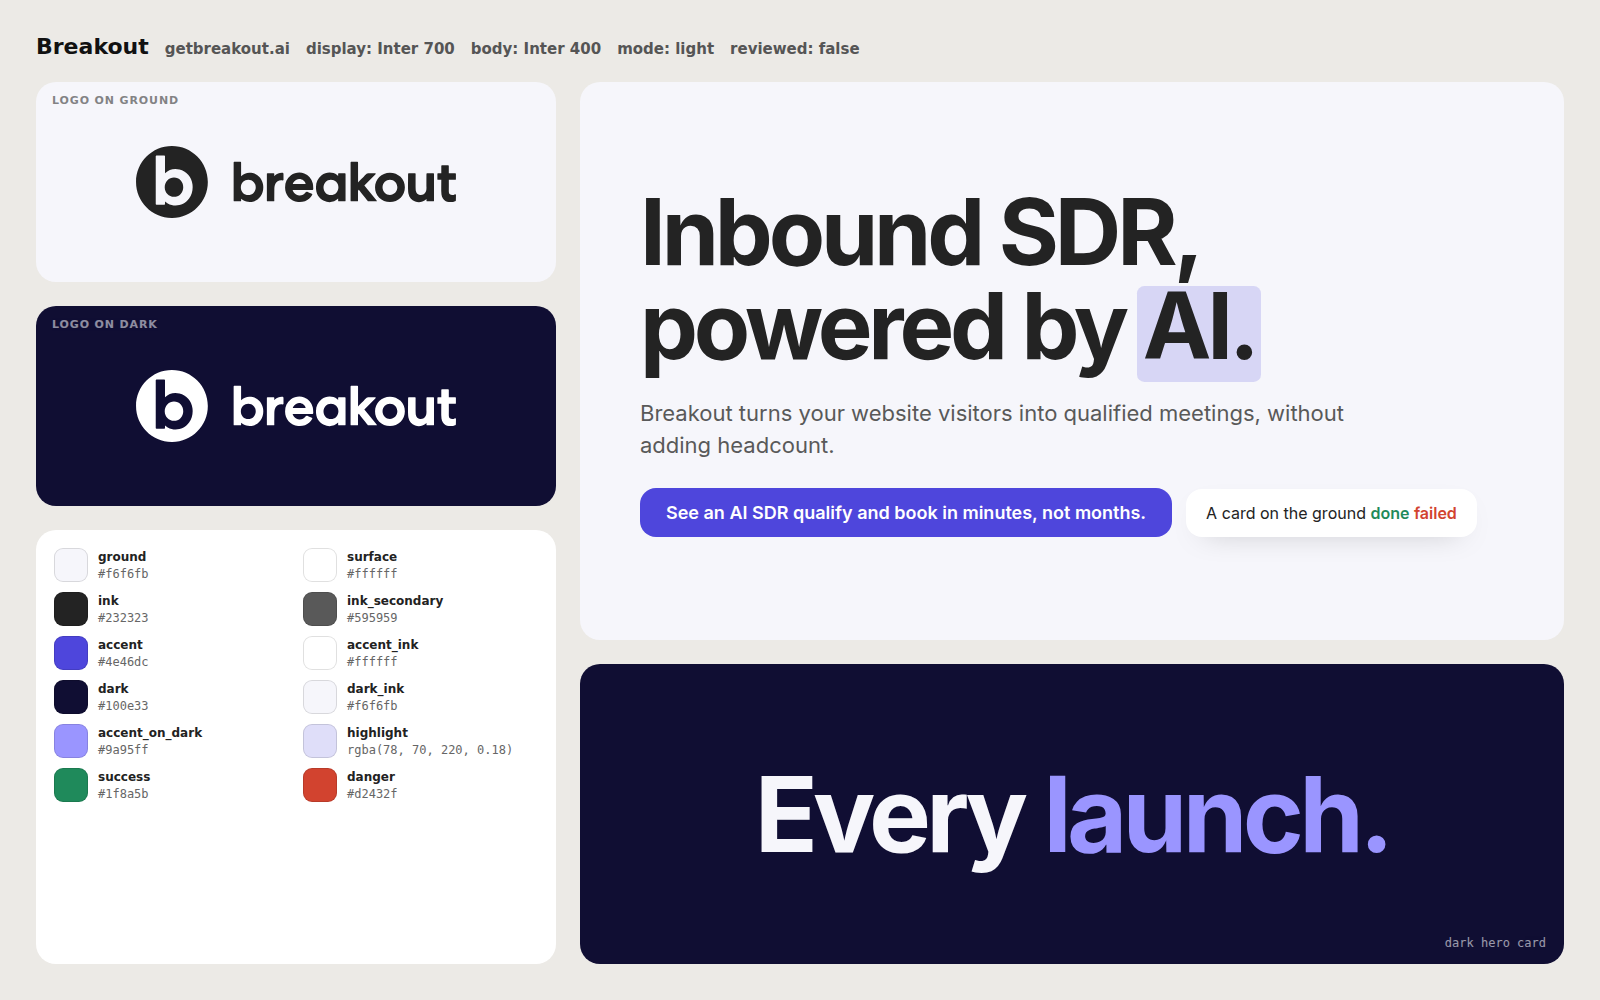
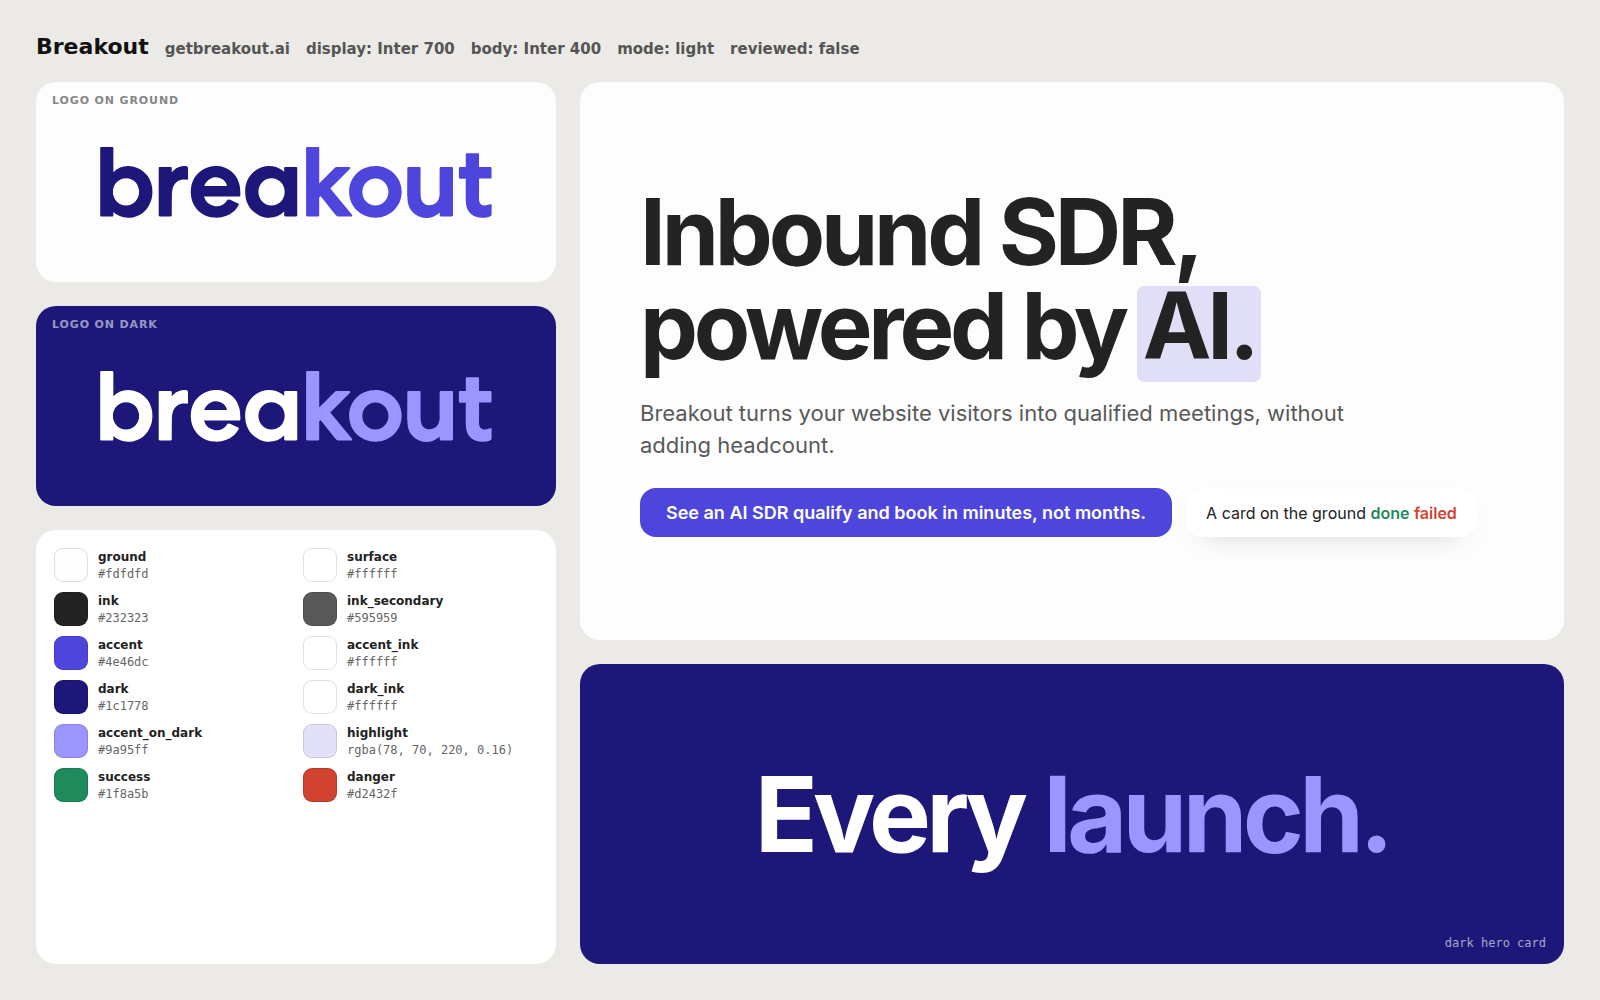
Use Breakout's app styles and real product screens
- Logo: the two-tone wordmark as the app shows it ('break' #1C1778, 'out'
  #4E46DC), built from the Drive SVG geometry; the mark is the indigo b-disc
  favicon
- Palette: dark cards on the wordmark's deep indigo, ground on the app's
  #fdfdfd
- Product beats on 4 real screens (Accounts, account Browsing Summary, All
  Chats, Contacts) with visitor names, emails, LinkedIn handles and visitor
  companies blurred; placeholders removed
- Style log round 1

Claude-Session: https://claude.ai/code/session_01KiAPnoACp1J2Pkh9Axh1Sx

diff --git a/brand/preview.html b/brand/preview.html
@@ -19,26 +19,26 @@ body { width: 1600px; height: 1000px; background: #eceae6; font-family: "Inter",
 .sw b { font: 600 12px system-ui; }
 .sw span { font: 12px ui-monospace, monospace; color: #666; }
 .right { display: grid; gap: 24px; grid-template-rows: 1fr 300px; }
-.stage { background: #f6f6fb; color: #232323; padding: 56px 60px; display: flex; flex-direction: column; justify-content: center; gap: 26px; }
+.stage { background: #fdfdfd; color: #232323; padding: 56px 60px; display: flex; flex-direction: column; justify-content: center; gap: 26px; }
 .hero { font-family: "Inter", system-ui, sans-serif; font-weight: 700; letter-spacing: -0.045em; font-size: 92px; line-height: 1.02; }
 .k { position: relative; isolation: isolate; }
-.k::before { content: ""; position: absolute; left: -0.06em; right: -0.06em; top: 0.18em; bottom: -0.02em; border-radius: 0.08em; background: rgba(78, 70, 220, 0.18); z-index: -1; }
+.k::before { content: ""; position: absolute; left: -0.06em; right: -0.06em; top: 0.18em; bottom: -0.02em; border-radius: 0.08em; background: rgba(78, 70, 220, 0.16); z-index: -1; }
 .body { font-size: 22px; line-height: 1.45; color: #595959; max-width: 760px; }
 .row { display: flex; gap: 14px; align-items: center; }
 .btn { background: #4e46dc; color: #ffffff; padding: 14px 26px; border-radius: 16px; font-weight: 600; font-size: 18px; }
 .surf { background: #ffffff; border-radius: 16px; padding: 14px 20px; font-size: 16px; color: #232323; box-shadow: 0 10px 30px -18px rgba(0,0,0,0.35); }
 .ok { color: #1f8a5b; font-weight: 600; } .bad { color: #d2432f; font-weight: 600; }
-.darkcard { background: #100e33; color: #f6f6fb; display: grid; place-items: center; }
-.darkcard .hero { font-size: 104px; color: #f6f6fb; }
+.darkcard { background: #1c1778; color: #ffffff; display: grid; place-items: center; }
+.darkcard .hero { font-size: 104px; color: #ffffff; }
 .darkcard .hero .acc { color: #9a95ff; }
 .meta { position: absolute; right: 18px; bottom: 14px; font: 12px ui-monospace, monospace; opacity: 0.6; }
 </style></head>
 <body>
 <div class="h"><b>Breakout</b><span>getbreakout.ai</span><span>display: Inter 700</span><span>body: Inter 400</span><span>mode: light</span><span>reviewed: false</span></div>
 <div class="col">
-  <div class="card lg" style="background:#f6f6fb"><small style="color:#232323">logo on ground</small><img src="logo.svg" alt=""></div>
-  <div class="card lg" style="background:#100e33"><small style="color:#f6f6fb">logo on dark</small><img src="logo-on-dark.svg" alt=""></div>
-  <div class="card sws"><div class="sw"><i style="background:#f6f6fb"></i><b>ground</b><span>#f6f6fb</span></div><div class="sw"><i style="background:#ffffff"></i><b>surface</b><span>#ffffff</span></div><div class="sw"><i style="background:#232323"></i><b>ink</b><span>#232323</span></div><div class="sw"><i style="background:#595959"></i><b>ink_secondary</b><span>#595959</span></div><div class="sw"><i style="background:#4e46dc"></i><b>accent</b><span>#4e46dc</span></div><div class="sw"><i style="background:#ffffff"></i><b>accent_ink</b><span>#ffffff</span></div><div class="sw"><i style="background:#100e33"></i><b>dark</b><span>#100e33</span></div><div class="sw"><i style="background:#f6f6fb"></i><b>dark_ink</b><span>#f6f6fb</span></div><div class="sw"><i style="background:#9a95ff"></i><b>accent_on_dark</b><span>#9a95ff</span></div><div class="sw"><i style="background:rgba(78, 70, 220, 0.18)"></i><b>highlight</b><span>rgba(78, 70, 220, 0.18)</span></div><div class="sw"><i style="background:#1f8a5b"></i><b>success</b><span>#1f8a5b</span></div><div class="sw"><i style="background:#d2432f"></i><b>danger</b><span>#d2432f</span></div></div>
+  <div class="card lg" style="background:#fdfdfd"><small style="color:#232323">logo on ground</small><img src="logo.svg" alt=""></div>
+  <div class="card lg" style="background:#1c1778"><small style="color:#ffffff">logo on dark</small><img src="logo-on-dark.svg" alt=""></div>
+  <div class="card sws"><div class="sw"><i style="background:#fdfdfd"></i><b>ground</b><span>#fdfdfd</span></div><div class="sw"><i style="background:#ffffff"></i><b>surface</b><span>#ffffff</span></div><div class="sw"><i style="background:#232323"></i><b>ink</b><span>#232323</span></div><div class="sw"><i style="background:#595959"></i><b>ink_secondary</b><span>#595959</span></div><div class="sw"><i style="background:#4e46dc"></i><b>accent</b><span>#4e46dc</span></div><div class="sw"><i style="background:#ffffff"></i><b>accent_ink</b><span>#ffffff</span></div><div class="sw"><i style="background:#1c1778"></i><b>dark</b><span>#1c1778</span></div><div class="sw"><i style="background:#ffffff"></i><b>dark_ink</b><span>#ffffff</span></div><div class="sw"><i style="background:#9a95ff"></i><b>accent_on_dark</b><span>#9a95ff</span></div><div class="sw"><i style="background:rgba(78, 70, 220, 0.16)"></i><b>highlight</b><span>rgba(78, 70, 220, 0.16)</span></div><div class="sw"><i style="background:#1f8a5b"></i><b>success</b><span>#1f8a5b</span></div><div class="sw"><i style="background:#d2432f"></i><b>danger</b><span>#d2432f</span></div></div>
 </div>
 <div class="right">
   <div class="card stage">
@@ -46,6 +46,6 @@ body { width: 1600px; height: 1000px; background: #eceae6; font-family: "Inter",
     <div class="body">Breakout turns your website visitors into qualified meetings, without adding headcount.</div>
     <div class="row"><span class="btn">See an AI SDR qualify and book in minutes, not months.</span><span class="surf">A card on the ground <span class="ok">done</span> <span class="bad">failed</span></span></div>
   </div>
-  <div class="card darkcard"><div class="hero">Every <span class="acc">launch.</span></div><span class="meta" style="color:#f6f6fb">dark hero card</span></div>
+  <div class="card darkcard"><div class="hero">Every <span class="acc">launch.</span></div><span class="meta" style="color:#ffffff">dark hero card</span></div>
 </div>
 </body></html>

diff --git a/docs/breakout-style.md b/docs/breakout-style.md
@@ -2,25 +2,26 @@
 
 The look of Breakout's launch films, decided one round at a time. Change 1 variable per round, and write each verdict in the owner's words in the table at the bottom.
 
-## Where it stands (round 0, a draft)
+## Where it stands (round 1)
 
 | Lever | Now | Where it lives |
 |---|---|---|
-| Grounds | Cool off-white `#f6f6fb` for statement scenes, deep indigo `#100e33` for dark cards, Breakout indigo `#4e46dc` for 1 accent card | `brand/brand.json` `colors` |
+| Grounds | The app's white `#fdfdfd` for statement scenes, deep indigo `#1c1778` for dark cards, indigo `#4e46dc` for 1 accent card | `brand/brand.json` `colors` |
 | Key words | A soft indigo marker on light grounds, lilac `#9a95ff` on dark | `highlight`, `accent_on_dark` |
 | Type | Inter 700, tracking -0.045em, hero words at 110 to 150 px | `fonts.display` |
-| Logo | The real Drive lockup (mark and wordmark), calm, never recoloured to indigo | `film.json` `"lockup": "logo"` |
+| Logo | The two-tone wordmark exactly as the app shows it, no mark | `film.json` `"lockup": "logo"` |
 | Motion | The kit's Apple and Lovable grammar: hard cuts on the voice, dives and collapses, a push into the product, a quiet end | `film/templates/body.html` |
 | Voice | Challenger: direct, confident, 1 idea per line | `film/film.json` `lines` |
 | Music | The free scratch bed at 120 BPM, drop on the cut | `film/score/` |
 
 ## Open questions to settle together
 
+0. **The homepage.** Its styles could not be read from the build container (network policy). Check them against `brand/preview.png`, or allow getbreakout.ai and re-extract.
 1. **Light or dark world.** Light statement scenes with dark punch cards (now), or a fully dark, indigo-glow film that feels more "AI"?
 2. **How much indigo.** 1 accent card per film (now), or indigo as the main ground with white type?
 3. **Type.** Inter as a stand-in, or the site's own face (needs its files and a video licence)?
 4. **Hook direction.** Type-only problem lines (now), a stylised "visitor leaves the site" moment, or a real website recording with the AI SDR opening a conversation?
-5. **Product shots.** Which 3 screens show identify, engage and convert best? A screen recording of a live conversation would beat stills.
+5. **Product shots.** Accounts, the account Browsing Summary, All Chats and Contacts are in. Missing: a live AI SDR conversation (the engage beat shows a list, not a chat) and a follow-up email. Contacts is mostly blurred; a demo workspace with sample data would read better.
 6. **Narrator.** Gender, age, pace. The kit's default is brisk and clear, 2.2 to 2.7 words a second, never performed.
 7. **Music.** Clean electronic at about 120 BPM (now), or something warmer?
 
@@ -28,4 +29,4 @@ The look of Breakout's launch films, decided one round at a time. Change 1 varia
 
 | Date | Round | Film | Approved | Rejected |
 |---|---|---|---|---|
-| | | | | |
+| 2026-10-05 | 1 | attention | Logo and colours from the app ("break" `#1C1778`, "out" `#4E46DC`); real screens with customer data blurred | Round 0's grey placeholder screens and invented `#100e33` dark |

diff --git a/brand/README.md b/brand/README.md
@@ -4,15 +4,15 @@ The Breakout brand kit. `brand.json` is the only file the film reads.
 
 | File | What | Source |
 |---|---|---|
-| `logo.svg` | Mark and wordmark in `#232323`, for light grounds | `source/breakout-logo-white.svg` (team Drive, `Breakout_logo 8.svg`), recoloured |
-| `logo-on-dark.svg` | The same in white | as shipped in Drive |
-| `mark.svg`, `mark-on-dark.svg` | The circle-b mark alone | the mark group of the same file |
+| `logo.svg` | The wordmark as the app shows it: "break" in deep indigo `#1C1778`, "out" in indigo `#4E46DC` | geometry from `source/breakout-logo-white.svg` (team Drive, `Breakout_logo 8.svg`), colours from the product screenshots |
+| `logo-on-dark.svg` | "break" in white, "out" in lilac `#9A95FF` | the same |
+| `mark.svg`, `mark-on-dark.svg` | The b-disc, indigo (the app's favicon) and white | the mark group of the same file |
 | `fonts/inter-100-900.woff2` | Inter, variable weight, Latin | [Inter](https://github.com/rsms/inter), SIL Open Font License (`fonts/OFL.txt`) |
 | `preview.png` | The kit on one sheet | `node tools/brand-from-url.mjs --preview --out brand` |
 
 ## Still to confirm (`"reviewed": false` until then)
 
-- **Colours.** `accent` `#4e46dc` and the deep indigo behind `dark` come from the colour classes in the Drive logo files (`#4E46DC`, `#1C1778`). `ground` is a cool off-white picked to sit with the indigo. Check them against the live site or a brand guide.
+- **Colours.** `accent` `#4e46dc` and `dark` `#1c1778` are the 2 wordmark colours, confirmed in the product screenshots. `ground` `#fdfdfd` is the app's background. Still to check against the homepage (blocked from the build container): its section colours, any gradient, and whether hero type is ink or deep indigo.
 - **Font.** Inter is a stand-in. If the site uses a different face, put its files in `fonts/` and update `fonts` in `brand.json`. Check the licence covers video.
 - **Copy.** It comes from the Brand Guide for Writers and the partner enablement guide. To pull the live site's headline and features, extract into a scratch folder so the logo here is not overwritten:
 

diff --git a/README.md b/README.md
@@ -28,7 +28,7 @@ The first version of every film is free and needs no accounts: a placeholder nar
    uv venv .venv && uv pip install -r requirements.txt
    ```
 
-2. Drop 3 or 4 real Breakout screenshots or short screen recordings into `film/assets/screens/`, using the names `visitors.png`, `chat.png` and `followup.png` (or change the `src` paths in `film/film.json`). The ones there now are labelled placeholders. Real screens carry the film.
+2. Real Breakout screens live in `film/assets/screens/`, with customer data blurred. Add more (a live conversation recording would be the strongest shot) and point the `src` paths in `film/film.json` at them.
 
 3. Open the folder in Claude Code and paste:
 
@@ -57,9 +57,9 @@ The film lands in `film/renders/attention.mp4`.
 | Hook `attention` | Dark ground, type only: "Buyers give you their *attention.* / You give them a *form.*" |
 | Hook `who-visited` | Light ground, 1 question: "Who visited your site *today?*" |
 | Name | The Breakout logo punches in on the drop: "is your *inbound SDR*, powered by AI." |
-| Identify | "Every *visitor.*" on dark, then the visitor screen pushes into company, person and intent |
-| Engage | "In *real time.*" on indigo, then the conversation: answers, then the meeting booked |
-| Convert | The follow-up screen: email and LinkedIn |
+| Identify | "Every *visitor.*" on deep indigo, then Accounts (relevance, location, source) and the account's Browsing Summary |
+| Engage | "In *real time.*" on indigo, then All Chats with a click on Live Chats and "Meeting booked" |
+| Convert | Contacts: email and LinkedIn, "Followed up" |
 | Blocks | Identify, Engage, Convert close into "One *AI SDR.*" |
 | Switch | "Inbound SDR, *always on.*" |
 | End | The logo lockup, "Inbound SDR, powered by AI.", getbreakout.ai, then quiet |

diff --git a/film/README.md b/film/README.md
@@ -6,7 +6,7 @@ The launch film template: a **hook** (the story before the cut) on a shared **bo
 |---|---|
 | `film.json` | The body: the narrator's lines and the beats they play under. Full reference: [body.md](../skills/launch-film/references/body.md). |
 | `hooks/<name>/hook.json` | One hook each. `attention` (dark, 2 lines) and `who-visited` (light, 1 question) are free, type-only hooks. Reference: [hooks.md](../skills/launch-film/references/hooks.md). |
-| `assets/screens/` | Breakout product screenshots or screen recordings (png, jpg, mp4, webm). `visitors.png`, `chat.png` and `followup.png` are labelled placeholders: replace them with real screens, then adjust each product beat's `focus` rect. |
+| `assets/screens/` | Breakout product screenshots or screen recordings (png, jpg, mp4, webm). `accounts.png`, `account.png`, `chats.png` and `contacts.png` are real app screens with visitor names, emails, LinkedIn handles and visitor companies blurred. Never commit an unblurred screen. After swapping a screen, adjust its beat's `focus` rect. |
 | `templates/body.html` | The look and motion. One HyperFrames composition; every beat is a pure function of time. |
 | `build.py`, `audio.py`, `render.sh` | Timing from the aligned voice, the sound and mix, and both plus the render per hook. |
 
